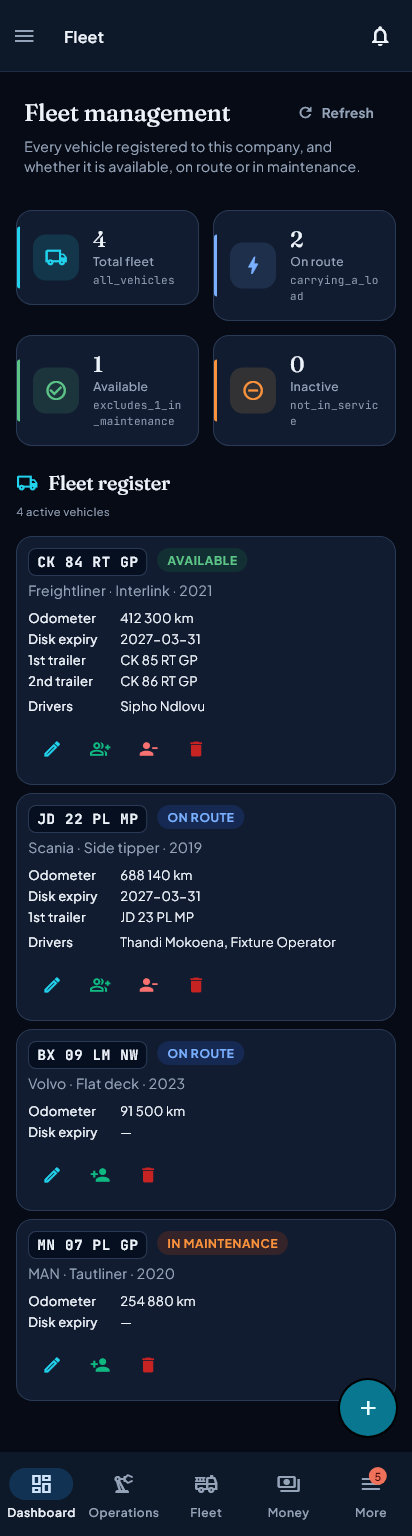
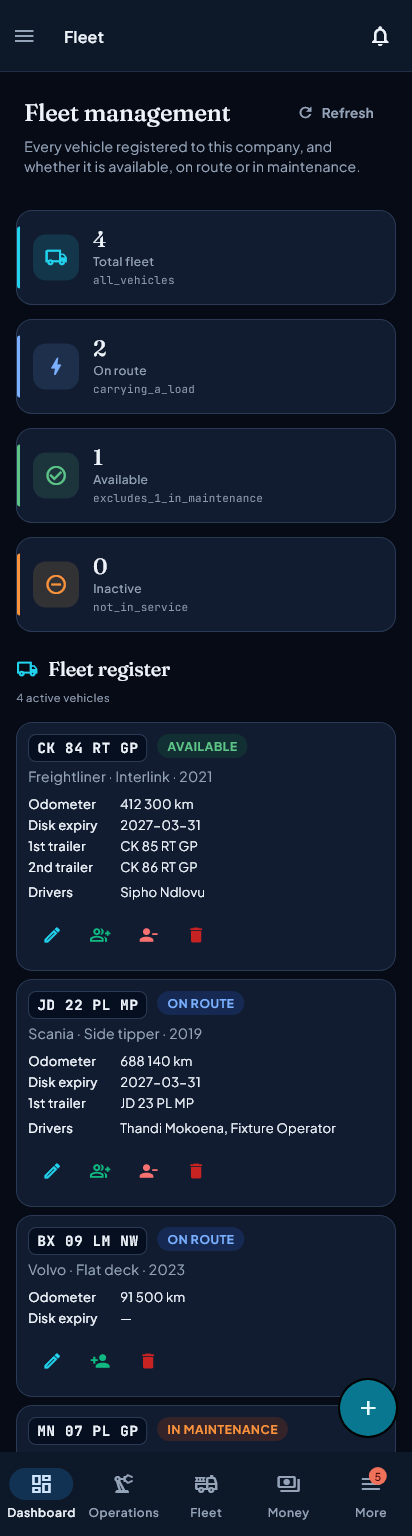
fix(fleet): the stat grid never reached one column, so its captions broke inside a word
Reviewer finding #8. The screen hand-rolled 'cols = w > 900 ? 4 : 2' — two
columns all the way down to a phone. At 412px that leaves each card 183px,
of which MlStatCard spends ~92 on its tone bar, icon well and padding, so
the mono captions broke mid-token: 'carrying_a_lo / ad', 'excludes_1_in /
_maintenance', 'not_in_servic / e'. Nothing overflowed — a wrapped caption
is a caption that fits — so no sweep would have raised it; it was
photographed on screen-fleet-phone-dark and read there.

MlTileGrid instead of a seventeenth hand-rolled ladder. Its own doc names
this exact shape as duplicated across sixteen files with breakpoints that
disagree screen to screen (980/620 here, 900/560 there) for tiles of the
same size. A MINIMUM TILE WIDTH states what is actually true — a stat card
needs ~260px for a figure and a caption — and has no arbitrary breakpoint
to fall out of step with.

Pinned by test/features/fleet/fleet_stat_captions_survive_a_phone_test.dart
at 380, 412 and 720. THE FIRST VERSION OF THAT TEST WAS BLIND AT 380: it
divided each caption's height by the height of 'all_vehicles' in the same
render, and under the old ladder that reference wraps too, so every caption
measured as exactly one line and the sabotage PASSED there. It counts
selection boxes now, and the sabotage bites at both phone widths. A
reference measured from the thing under test is only a reference while the
thing under test is right.
[…]

Changed region(s): [[0.0291, 0.125, 0.9612, 0.9688], [0.5825, 0.7188, 0.6117, 0.75]]

diff --git a/lib/features/fleet/screens/fleet_management_screen.dart b/lib/features/fleet/screens/fleet_management_screen.dart
@@ -59,6 +59,11 @@ class FleetManagementScreen extends ConsumerWidget {
 
     return Scaffold(
       backgroundColor: Colors.transparent,
+      floatingActionButton: FloatingActionButton(
+        onPressed: () => _showAddVehicleDialog(context, ref, companyId),
+        tooltip: 'Add Vehicle',
+        child: const Icon(Icons.add),
+      ),
       body: Column(
         crossAxisAlignment: CrossAxisAlignment.stretch,
         children: [
@@ -69,6 +74,17 @@ class FleetManagementScreen extends ConsumerWidget {
               description:
                   'Every vehicle registered to this company, and '
                   'whether it is available, on route or in maintenance.',
+              // THE PRIMARY ACTION BELONGS IN THE HEADER, not in a
+              // `FloatingActionButton` over the bottom-right corner.
+              //
+              // No other screen in this product has one. A FAB is Material's
+              // own answer, but this console's answer — the reference's, and
+              // every other register's — is a primary button in the page
+              // header beside the page's name, where the reader is already
+              // looking when they decide to add something. The FAB also sat
+              // ON TOP of the last row of the register at phone width, and
+              // its only label was a tooltip, which a touch device never
+              // shows.
               actions: [
                 MlButton.ghost(
                   label: 'Refresh',
@@ -85,11 +101,6 @@ class FleetManagementScreen extends ConsumerWidget {
             child: _buildBody(context, ref, fleetProviderInstance, companyId),
           ),
         ],
-      ),
-      floatingActionButton: FloatingActionButton(
-        onPressed: () => _showAddVehicleDialog(context, ref, companyId),
-        tooltip: 'Add Vehicle',
-        child: const Icon(Icons.add),
       ),
     );
   }
@@ -173,79 +184,76 @@ class FleetManagementScreen extends ConsumerWidget {
                 final inMaintenance = rows
                     ?.where((v) => v.inMaintenance)
                     .length;
-                return LayoutBuilder(
-                  builder: (context, c) {
-                    final w = c.maxWidth;
-                    const gap = 14.0;
-                    final cols = w > 900 ? 4 : 2;
-                    final itemW = (w - gap * (cols - 1)) / cols;
-                    return Wrap(
-                      spacing: gap,
-                      runSpacing: gap,
-                      children: [
-                        SizedBox(
-                          width: itemW,
-                          child: MlStatCard(
-                            label: 'Total fleet',
-                            value: '${fleetState.vehicles.length}',
-                            icon: Icons.local_shipping_outlined,
-                            tone: MlTone.accent,
-                            caption: 'all_vehicles',
-                          ),
-                        ),
-                        // ON ROUTE AND AVAILABLE ARE DERIVED FROM ACTIVE TRIPS, not
-                        // from whether a driver happens to be rostered. They used to
-                        // read `hasAssignedDriver`, under the labels "On Trip /
-                        // Assigned" and "Available", and on 2026-08-22 that put every
-                        // one of Roadhaul's three trucks in the WRONG bucket: the two
-                        // carrying loads to Johannesburg have no driver row, so they
-                        // counted as Available, while the one parked truck has a
-                        // driver and counted as On Trip. "Available" is the number an
-                        // admin allocates from.
-                        //
-                        // `fleetStatusProvider` is the same server-derived source the
-                        // Trucks On Route screen and the dashboard already read
-                        // (`list_transporter_fleet_status`, CLAUDE.md §4), so all
-                        // three now agree by construction rather than by coincidence.
-                        SizedBox(
-                          width: itemW,
-                          child: MlStatCard(
-                            label: 'On route',
-                            value: onRoute == null ? '—' : '$onRoute',
-                            icon: Icons.bolt_outlined,
-                            tone: MlTone.transit,
-                            caption: 'carrying_a_load',
-                          ),
-                        ),
-                        SizedBox(
-                          width: itemW,
-                          child: MlStatCard(
-                            label: 'Available',
-                            value: available == null ? '—' : '$available',
-                            icon: Icons.check_circle_outline,
-                            tone: MlTone.done,
-                            // A truck in maintenance is active, not on a route,
-                            // and NOT allocatable. Without saying so the four
-                            // cards stop adding up to the total and the reader
-                            // has no way to see why.
-                            caption: (inMaintenance ?? 0) > 0
-                                ? 'excludes_${inMaintenance}_in_maintenance'
-                                : 'ready_to_allocate',
-                          ),
-                        ),
-                        SizedBox(
-                          width: itemW,
-                          child: MlStatCard(
-                            label: 'Inactive',
-                            value: '${fleetState.inactiveVehicles.length}',
-                            icon: Icons.do_not_disturb_on_outlined,
-                            tone: MlTone.warn,
-                            caption: 'not_in_service',
-                          ),
-                        ),
-                      ],
-                    );
-                  },
+                // `MlTileGrid`, NOT a seventeenth hand-rolled ladder.
+                //
+                // This one read `cols = w > 900 ? 4 : 2` and therefore NEVER
+                // REACHED ONE COLUMN. On a 412px phone that leaves each card
+                // 183px, of which `MlStatCard` spends ~92 on its tone bar,
+                // icon well and padding — so the mono captions broke inside
+                // the token: `carrying_a_lo / ad`, `excludes_1_in /
+                // _maintenance`, `not_in_servic / e`. Nothing overflowed, so
+                // no sweep saw it; photographed on `screen-fleet-phone-dark`.
+                //
+                // The component's own doc names this exact shape as duplicated
+                // in sixteen files with breakpoints that disagree screen to
+                // screen (980/620 here, 900/560 there) for tiles of the same
+                // size. A MINIMUM TILE WIDTH says the thing that is actually
+                // true — a stat card needs ~260px to hold a figure and a
+                // caption — and has no arbitrary breakpoint to disagree with
+                // anyone else's.
+                return MlTileGrid(
+                  minTileWidth: 260,
+                  children: [
+                    MlStatCard(
+                      label: 'Total fleet',
+                      value: '${fleetState.vehicles.length}',
+                      icon: Icons.local_shipping_outlined,
+                      tone: MlTone.accent,
+                      caption: 'all_vehicles',
+                    ),
+                    // ON ROUTE AND AVAILABLE ARE DERIVED FROM ACTIVE TRIPS, not
+                    // from whether a driver happens to be rostered. They used to
+                    // read `hasAssignedDriver`, under the labels "On Trip /
+                    // Assigned" and "Available", and on 2026-08-22 that put every
+                    // one of Roadhaul's three trucks in the WRONG bucket: the two
+                    // carrying loads to Johannesburg have no driver row, so they
+                    // counted as Available, while the one parked truck has a
+                    // driver and counted as On Trip. "Available" is the number an
+                    // admin allocates from.
+                    //
+                    // `fleetStatusProvider` is the same server-derived source the
+                    // Trucks on route screen and the dashboard already read
+                    // (`list_transporter_fleet_status`, CLAUDE.md §4), so all
+                    // three now agree by construction rather than by coincidence
+                    // — and since 2026-08-23 the REGISTER'S OWN ROWS read it too.
+                    MlStatCard(
+                      label: 'On route',
+                      value: onRoute == null ? '—' : '$onRoute',
+                      icon: Icons.bolt_outlined,
+                      tone: MlTone.transit,
+                      caption: 'carrying_a_load',
+                    ),
+                    MlStatCard(
+                      label: 'Available',
+                      value: available == null ? '—' : '$available',
+                      icon: Icons.check_circle_outline,
+                      tone: MlTone.done,
+                      // A truck in maintenance is active, not on a route,
+                      // and NOT allocatable. Without saying so the four
+                      // cards stop adding up to the total and the reader
+                      // has no way to see why.
+                      caption: (inMaintenance ?? 0) > 0
+                          ? 'excludes_${inMaintenance}_in_maintenance'
+                          : 'ready_to_allocate',
+                    ),
+                    MlStatCard(
+                      label: 'Inactive',
+                      value: '${fleetState.inactiveVehicles.length}',
+                      icon: Icons.do_not_disturb_on_outlined,
+                      tone: MlTone.warn,
+                      caption: 'not_in_service',
+                    ),
+                  ],
                 );
               },
             ),

diff --git a/test/features/fleet/fleet_stat_captions_survive_a_phone_test.dart b/test/features/fleet/fleet_stat_captions_survive_a_phone_test.dart
@@ -1,0 +1,125 @@
+// The fleet stat grid never reached one column, so its captions broke inside
+// a word.
+//
+// Transporter pass, 2026-08-23 (reviewer finding #8). The screen hand-rolled
+// `final cols = w > 900 ? 4 : 2` — two columns all the way down to a phone. At
+// 412px that leaves each card 183px, of which `MlStatCard` spends ~92 on its
+// tone bar, icon well and padding, so the mono captions broke mid-token:
+// `carrying_a_lo / ad`, `excludes_1_in / _maintenance`, `not_in_servic / e`.
+//
+// Nothing overflowed. A wrapped caption is a caption that fits, so no overflow
+// sweep would ever have raised it; it was photographed on
+// `screen-fleet-phone-dark` and read there.
+//
+// `MlTileGrid` is the shared component for this, and its own doc names the
+// shape as duplicated across sixteen files with breakpoints that disagree
+// screen to screen (980/620 here, 900/560 there) for tiles of the same size.
+// Asking for a MINIMUM TILE WIDTH states the thing that is actually true and
+// has no arbitrary breakpoint to fall out of step with.
+
+import 'package:flutter/material.dart';
+import 'package:flutter/rendering.dart';
+import 'package:flutter_riverpod/flutter_riverpod.dart';
+import 'package:flutter_test/flutter_test.dart';
+
+import 'package:flutter_application_1/core/theme/app_theme.dart';
+import 'package:flutter_application_1/features/fleet/screens/fleet_management_screen.dart';
+
+import '../../fixtures/portal_capture_fixtures.dart';
+import '../../fixtures/screen_fixtures.dart';
+import '../../test_helpers/real_fonts.dart';
+import '../../test_helpers/frozen_clock.dart';
+import '../../test_helpers/test_supabase.dart';
+
+void main() {
+  setUpAll(() async {
+    freezeCaptureClock();
+    await loadRealFonts();
+    await ensureTestSupabaseInitialized();
+  });
+
+  Future<void> pump(WidgetTester tester, double width) async {
+    tester.view.physicalSize = Size(width, 2400);
+    tester.view.devicePixelRatio = 1.0;
+    addTearDown(tester.view.reset);
+    await tester.pumpWidget(
+      ProviderScope(
+        overrides: [
+          ...companyScopeOverrides(),
+          ...portalCaptureOverrides(),
+        ],
+        child: MaterialApp(
+          theme: AppTheme.darkTheme,
+          home: const Scaffold(body: FleetManagementScreen()),
+        ),
+      ),
+    );
+    await tester.pumpAndSettle();
+  }
+
+  // Every caption the four cards can carry. They are snake_case on purpose —
+  // the reference's own texture (§4) — which is exactly why they cannot be
+  // allowed to break: there is no space in them to break AT.
+  const captions = [
+    'all_vehicles',
+    'carrying_a_load',
+    'excludes_1_in_maintenance',
+    'not_in_service',
+  ];
+
+  // 380 and 412 are phones; 720 a small tablet, where two columns is right and
+  // the captions must still survive.
+  for (final width in const [380.0, 412.0, 720.0]) {
+    testWidgets('no stat caption breaks at ${width.toInt()}px', (tester) async {
+      await pump(tester, width);
+
+      // COUNTED, not inferred from a height ratio.
+      //
+      // The first version of this divided each caption's height by the height
+      // of `all_vehicles` in the same render, on the assumption that the
+      // shortest caption always fits. At 380px under the old two-column
+      // ladder it does NOT — it wraps too — so the reference was two lines
+      // tall and every caption measured as exactly "1". The test PASSED under
+      // sabotage at that width and only bit at 412. A reference measured from
+      // the thing under test is only a reference while the thing under test is
+      // right.
+      for (final caption in captions) {
+        final f = find.text(caption);
+        expect(f, findsOneWidget, reason: '"$caption" is not painted');
+        // One selection box per painted line. (`computeLineMetrics` is not
+        // on `RenderParagraph` in this Flutter.)
+        final boxes = tester
+            .renderObject<RenderParagraph>(f)
+            .getBoxesForSelection(TextSelection(
+              baseOffset: 0,
+              extentOffset: caption.length,
+            ));
+        final lines = boxes.map((b) => b.top.round()).toSet().length;
+        expect(
+          lines,
+          1,
+          reason: '"$caption" is on $lines lines, and it has nowhere to break '
+              '— every character of it is a word',
+        );
+      }
+    });
+  }
+
+  // THE CASE THAT MUST STAY GREEN. One column everywhere would satisfy every
+  // assertion above and waste the whole desktop. Four cards on a 1600px
+  // console belong on one row.
+  testWidgets('a desktop still gets all four cards on one row', (tester) async {
+    await pump(tester, 1600);
+
+    final tops = [
+      for (final caption in captions) tester.getRect(find.text(caption)).top,
+    ];
+    for (final top in tops) {
+      expect(
+        (top - tops.first).abs(),
+        lessThan(2),
+        reason: 'the four cards are not on one row at 1600px',
+      );
+    }
+  });
+}
